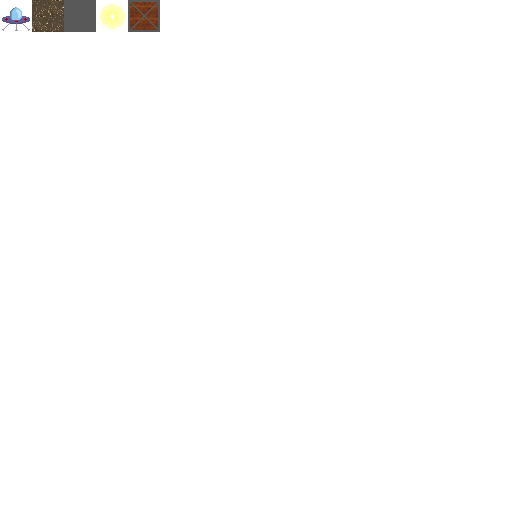
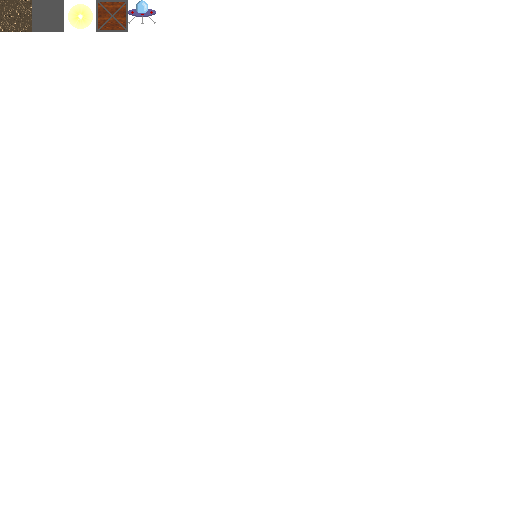
Changed the shape of the main sprite slightly

Changed region(s): [[0.0, 0.0, 0.3125, 0.0625]]

diff --git a/game_view.py b/game_view.py
@@ -235,7 +235,7 @@ class GameView(ui.RootElement):
         self.ship   = actors.PlayerShip(self,
                                         self.physics,
                                         bl = Point(self.absolute.size.x*0.55,max_height+20),
-                                        tr = Point(self.absolute.size.x*0.55+50,max_height+20+50),
+                                        tr = Point(self.absolute.size.x*0.55+50,max_height+20+43),
                                         tc = self.atlas.TextureCoords(os.path.join(globals.dirs.sprites,'ship.png')))
         
         self.land_heights = [(0,50)]

diff --git a/modes.py b/modes.py
@@ -300,6 +300,8 @@ class Titles(Mode):
         self.elapsed = t - self.start
         self.stage = self.handlers[self.stage](t)
         if self.stage == TitleStages.COMPLETE:
+            #Lets add some dinosaurs
+            
             self.parent.mode = self.parent.game_mode
 
     def Startup(self,t):
